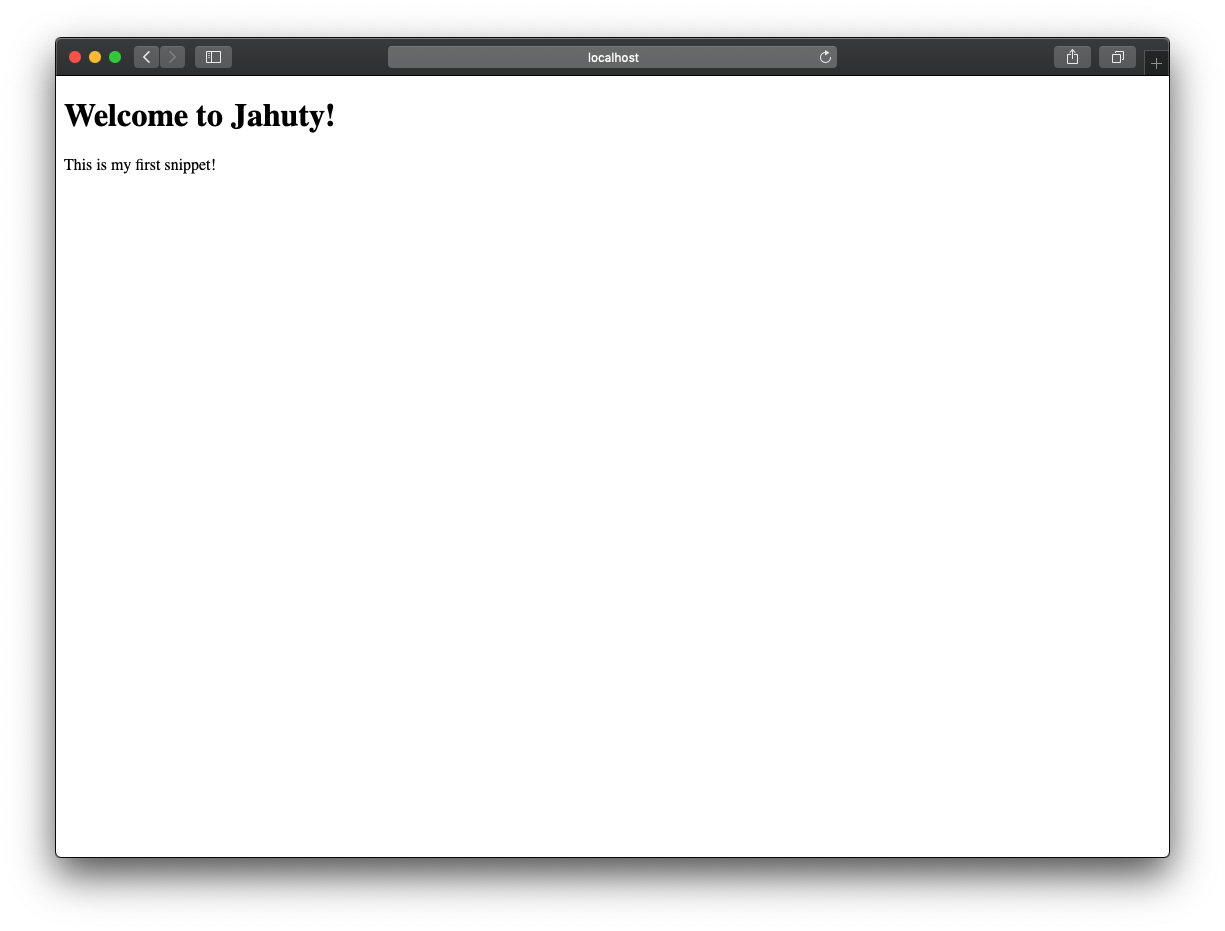
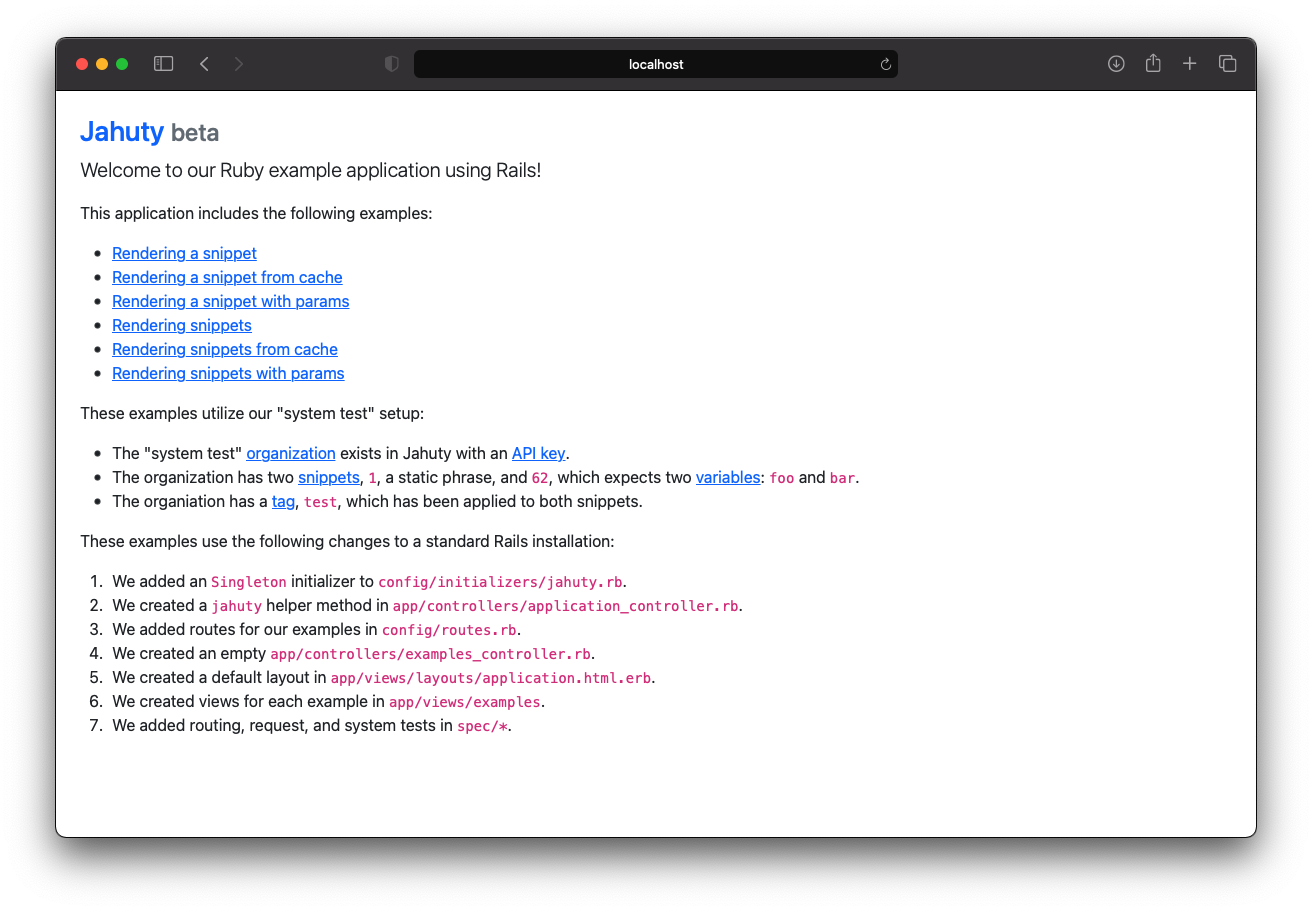
Update copy and example screenshot

Changed region(s): [[0.031, 0.0307, 0.9616, 0.9221]]

diff --git a/README.md b/README.md
@@ -116,30 +116,20 @@ Navigate to `http://localhost:3000/examples`, and you should see the following:
 
 ![Jahuty example](https://github.com/jahuty/jahuty-ruby-example/blob/master/app/assets/images/example.png)
 
-In this example, we're rendering the "default" snippet (i.e., the snippet we use for system tests). We initialized our [client](https://github.com/jahuty/jahuty-ruby) with our (public) [API key](https://docs.jahuty.com/api#authentication) and used the SDK to retrieve the snippet with an `id` of 1 in `app/views/examples/index.html.erb`.
-
 ## Customizing the example
 
-Ready to use your own snippet?
+Our examples use snippets that we control. Of course, it's more fun if you use your own.
 
-If you haven't already, [sign up](https://www.jahuty.com/users/sign_up). We'll provision your account with an organization, an API key, and a welcome snippet.
+If you haven't already, [sign up](https://app.jahuty.com/sign-up), and we'll provision your account with an organization, an API key, and a welcome snippet.
 
-Replace the default API key in `app/views/examples/index.html.erb` with the temporary API key we included in your welcome email:
+Then, to use your snippets in the examples:
 
-```ruby
-# app/views/examples/index.html.erb
-jahuty = Jahuty::Client.new(api_key: 'YOUR_API_KEY')
-```
-
-And, replace the snippet `id` in the same file with your snippet's `id`. You can find a snippet's `id` beside its name:
-
-```html+erb
-<p>
-  <%== jahuty.snippets.render YOUR_SNIPPET_ID %>
-</p>
-```
+1. _Change the API key._ Open `config/initializers/jahuty.rb` and replace our API key with yours.
+1. _Change the snippet id._ Open `resources/views/examples/snippet.html.erb` and replace our snippet `id` with yours.
 
 Refresh the page, and you should see your snippet's content in the document!
+
+## That's it!
 
 If you have questions, try [our documentation](https://docs.jahuty.com) or feel free too [ask us a question](https://www.jahuty.com/contact).
 
